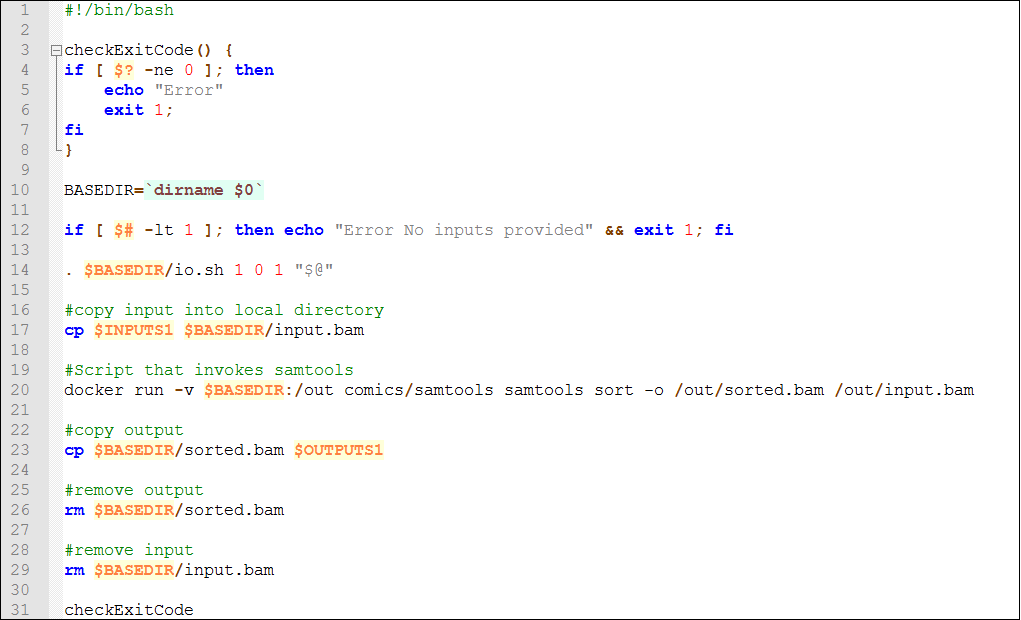
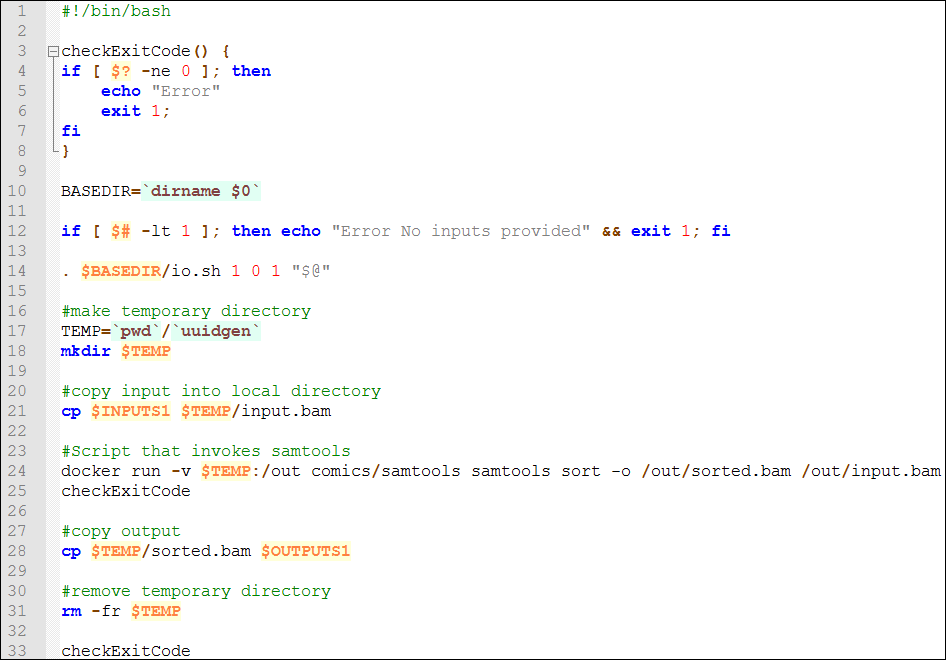
Updated tutorial to reflect temp directories
Also, added Varun Ratnakar in the acknowledgements for his help.

diff --git a/Tutorials/stanford5Dec2016/index.html b/Tutorials/stanford5Dec2016/index.html
@@ -406,20 +406,20 @@
 			<img src="images/ho4_im9executingImage.png" alt="Executing the comics/samtools image locally" width="700">
 			<div><b>Fig 30</b>: Executing the comics/samtools image locally</div>
 		 </div>
-		Basically, the program runs, but it is asking for its correct usage (we didn't invoked it correctly). Since the mpileup software requires three inputs, in this tutorial we are going to choose a simpler function from the samtools software: sort, which sorts an input bam file. In order to be able to pass the inputs file to our docker container, we need to mount a volume, i.e., tell the system that we want to share a folder with the container. This can be done with the “-v” option. 
+		Basically, the program runs, but it is asking for its correct usage (we didn't invoke it correctly). Since the mpileup software requires three inputs, in this tutorial we are going to choose a simpler function from the samtools software: sort, which sorts an input bam file. In order to be able to pass the inputs file to our docker container, we need to mount a volume, i.e., tell the system that we want to share a folder with the container. This can be done with the “-v” option. 
 		</p>
 		<p>
 		<strong>Action</strong>:  execute the following command: 
-		<pre>docker run -v PathToFolderYouWantToShare:/out comics/samtools samtoolssort -o 
+		<pre>docker run -v PathToFolderYouWantToShare:/out comics/samtools samtools sort -o 
 /out/sorted.bam /out/inputFileToSort.bam</pre> 
-		Where the PathOfTheFolderYouWantToShare is the folder where you have your input file ("inputFileToSort.bam"). This will result in a sorted file ("sorted.bam") of the input file “inputFileToSort” in the folder "PathToFolderYouWantToShare". Now that we have tested our image locally, we should test it on Wings.</p>
+		Where the PathOfTheFolderYouWantToShare is the folder where you have your input file ("inputFileToSort.bam"). This will result in a sorted file ("sorted.bam") of the input file “inputFileToSort” in the folder "PathToFolderYouWantToShare". Now that we have tested our image locally, we should test it in Wings.</p>
 		<p>
-		<strong>Action</strong>: Create a component in Wings and use the Docker image to invoke it (you can <a href="test.zip">a component template in this link</a>). The component should look similar to the picture below:
+		<strong>Action</strong>: Create a component in Wings and use the Docker image to invoke it (you can find <a href="test.zip">a component template in this link</a>). The component should look similar to the picture below:
 		<div class="center">				
 			<img src="images/ho4_im10WingsComp.png" alt="WINGS component using a Docker image" width="700">
 			<div><b>Fig 31</b>: WINGS component using a Docker image</div>
 		 </div>
-		<p>The script is similar to the console command we have executed locally, but copies the input to the local folder in order. The local folder is mounted in WINGS using the previous "-v" Docker command. The outputs are copied to the appropriate folder for WINGS (using "cp"), and the local files are removed ("rm" command).</p>
+		<p>The script is similar to the console command we have executed locally, but copies the input to a temporary folder. This way if we have ten instances of the component at the same time, they will read the appropriate temporary folder. The temporary folder is mounted in WINGS using the "-v" Docker command we have used previously. The outputs are copied to the corresponding WINGS output (using "cp"), and the local files are removed ("rm" command).</p>
 		
 		<p>Congratulations! you have a "Dockerized" component in WINGS! However, what would happen if you want to create your own image? We address this in the next section.</p>
 		
@@ -505,7 +505,7 @@ sort -o /out/sorted.bam /out/canary_test.bam</pre>
 			<img src="images/ho4_im13.png" alt="Modifying run.sh to add the Docker commands" width="700">
 			<div><b>Fig 37</b>: Modifying run.sh to add the Docker commands</div>
 		 </div>
-		 As shown in the image, the script is very similar as if we used the online image, just building the Docker file and using the same name for its invocation.
+		 As shown in the image, the script is very similar as if we used the online image, just building the Docker file and using the image name (dgarijo/test:v1) for its invocation.
 	</div>
 	<div class="clear"> </div>
 	</div>
@@ -513,7 +513,7 @@ sort -o /out/sorted.bam /out/canary_test.bam</pre>
 <div class="page"> 
 <!-- page industries -->	
 
-<div class="page_bottom"><div class="center"><a rel="license" href="http://creativecommons.org/licenses/by-nc-sa/2.0/"><img alt="Creative Commons License" style="border-width:0" src="http://i.creativecommons.org/l/by-nc-sa/2.0/88x31.png" /></a><br/>This page was created by <a href="https://w3id.org/people/dgarijo">Daniel Garijo</a>. It is licensed under a <a rel="license" href="http://creativecommons.org/licenses/by-nc-sa/2.0/">Creative Commons Attribution-NonCommercial-ShareAlike 2.0 Generic License</a>.
+<div class="page_bottom"><div class="center"><a rel="license" href="http://creativecommons.org/licenses/by-nc-sa/2.0/"><img alt="Creative Commons License" style="border-width:0" src="http://i.creativecommons.org/l/by-nc-sa/2.0/88x31.png" /></a><br/>This page was created by <a href="https://w3id.org/people/dgarijo">Daniel Garijo</a>, with the help of <a href="http://www.isi.edu/~varunr/">Varun Ratnakar</a>. It is licensed under a <a rel="license" href="http://creativecommons.org/licenses/by-nc-sa/2.0/">Creative Commons Attribution-NonCommercial-ShareAlike 2.0 Generic License</a>.
 </div>
 </div>
 </div>
